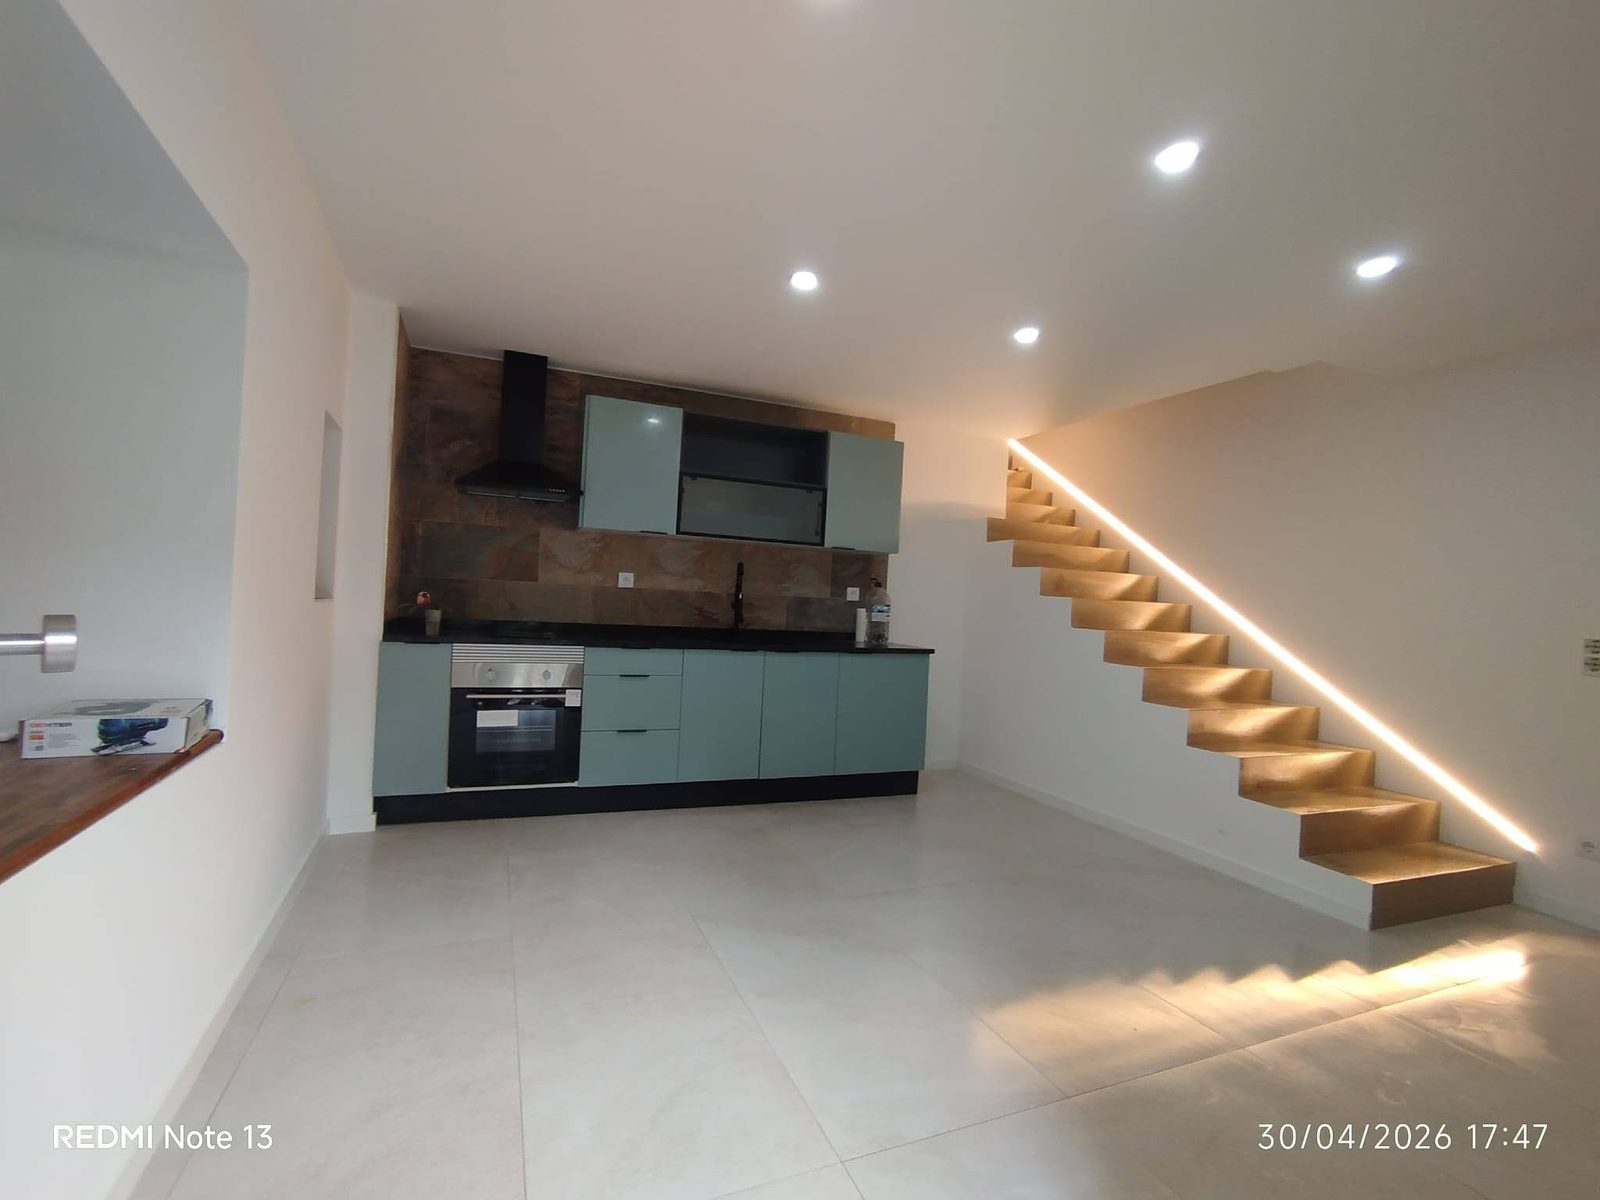
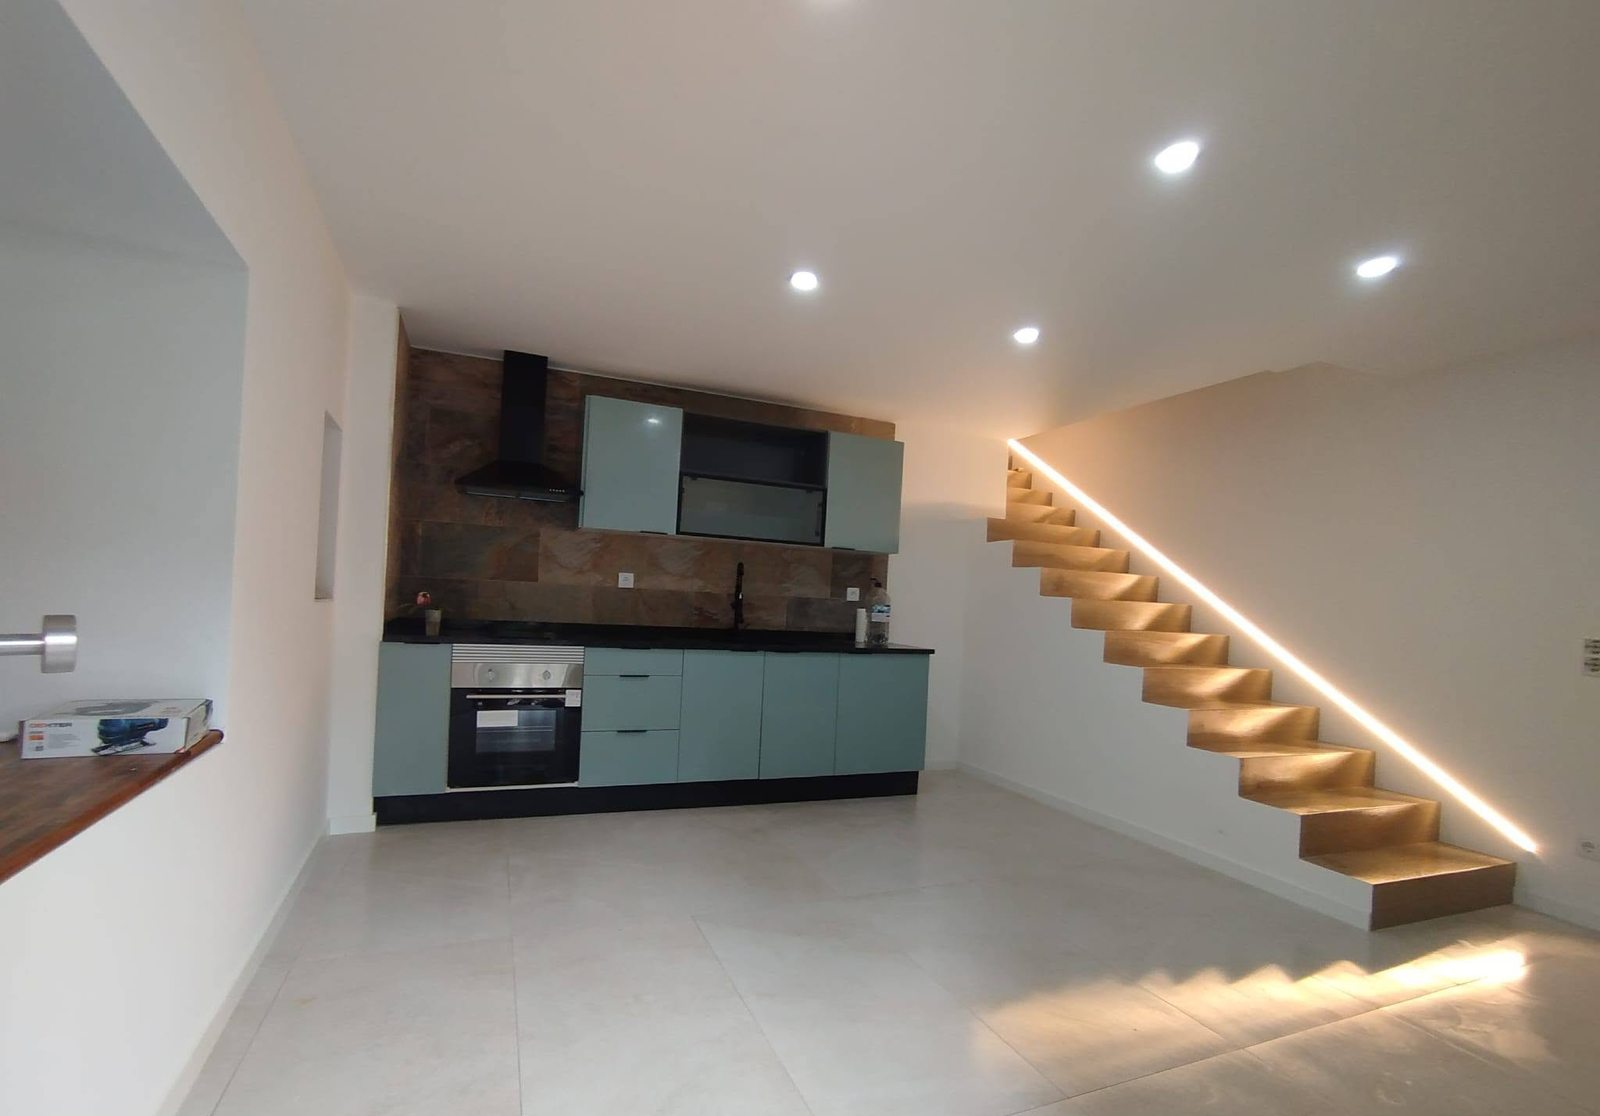
Bloco 4: hero (título+destaque, CTAs, provas, foto premium sem carimbo)

diff --git a/index.html b/index.html
@@ -86,8 +86,33 @@
   </div>
 
   <main id="conteudo">
-    <section id="inicio" style="min-height:90vh;display:flex;align-items:center;background:var(--grad-navy);color:#fff">
-      <div class="container"><span class="eyebrow" style="color:#fff">Bloco 3 · navbar</span><h1 style="color:#fff;max-width:16ch">Transformamos ideias em realidade.</h1><p class="section-lead" style="color:rgba(255,255,255,.85)">Placeholder para testar a navbar (logo que encolhe) e o menu mobile. Hero real a seguir.</p></div>
+    <!-- ================= HERO ================= -->
+    <section id="inicio" class="hero">
+      <div class="container hero__grid">
+        <div class="hero__copy" data-reveal>
+          <span class="eyebrow">Remodelações · Vila Nova de Gaia</span>
+          <h1 class="hero__title">Transformamos ideias em <span class="hl">realidade</span>.</h1>
+          <p class="hero__lead">Remodelações interior e exterior com <strong>qualidade, profissionalismo e atenção ao detalhe</strong>. Do pladur ao telhado, tratamos de tudo — e entregamos a obra pronta a estrear.</p>
+          <div class="hero__cta">
+            <a class="btn btn--primary btn--lg" href="https://wa.me/351937605547?text=Ol%C3%A1%21%20Gostaria%20de%20um%20or%C3%A7amento." target="_blank" rel="noopener">
+              <svg viewBox="0 0 24 24" aria-hidden="true" fill="currentColor"><path d="M12.04 2C6.58 2 2.13 6.45 2.13 11.91c0 1.75.46 3.45 1.32 4.95L2 22l5.25-1.38c1.45.79 3.08 1.21 4.79 1.21h.01c5.46 0 9.91-4.45 9.91-9.91 0-2.65-1.03-5.14-2.9-7.01A9.82 9.82 0 0012.04 2zm5.8 14.16c-.24.68-1.42 1.31-1.95 1.35-.5.04-.99.21-3.42-.71-2.88-1.14-4.72-4.09-4.86-4.28-.14-.19-1.17-1.56-1.17-2.97 0-1.41.74-2.11 1-2.4.26-.28.57-.35.76-.35.19 0 .38 0 .55.01.18.01.42-.07.65.5.24.58.81 2 .88 2.15.07.14.12.31.02.5-.09.19-.14.31-.28.48-.14.17-.29.37-.42.5-.14.14-.28.29-.12.57.16.28.71 1.17 1.53 1.9 1.05.94 1.94 1.23 2.22 1.37.28.14.44.12.6-.07.16-.19.69-.81.88-1.09.19-.28.37-.23.63-.14.26.09 1.65.78 1.93.92.28.14.47.21.54.33.07.11.07.66-.17 1.34z"/></svg>
+              Pedir orçamento
+            </a>
+            <a class="btn btn--outline btn--lg" href="#obras">Ver obras</a>
+          </div>
+          <ul class="hero__trust">
+            <li><svg viewBox="0 0 24 24" fill="none" stroke="currentColor" stroke-width="2.4" stroke-linecap="round" stroke-linejoin="round"><path d="m20 6-11 11-5-5"/></svg> Qualidade</li>
+            <li><svg viewBox="0 0 24 24" fill="none" stroke="currentColor" stroke-width="2.4" stroke-linecap="round" stroke-linejoin="round"><path d="m20 6-11 11-5-5"/></svg> Profissionalismo</li>
+            <li><svg viewBox="0 0 24 24" fill="none" stroke="currentColor" stroke-width="2.4" stroke-linecap="round" stroke-linejoin="round"><path d="m20 6-11 11-5-5"/></svg> Soluções à medida</li>
+          </ul>
+        </div>
+        <div class="hero__media" data-reveal>
+          <div class="hero__photo">
+            <img src="assets/img/obras/escada-led.jpg" alt="Escada interior com iluminação LED — remodelação Raf Matos" width="900" height="1125" fetchpriority="high" />
+          </div>
+          <span class="hero__badge">Orçamento sem compromisso</span>
+        </div>
+      </div>
     </section>
     <section id="servicos" class="section"><div class="container"><h2>Serviços</h2><p class="muted">(em construção)</p></div></section>
     <section id="antes-depois" class="section section--soft"><div class="container"><h2>Antes &amp; Depois</h2><p class="muted">(em construção)</p></div></section>

diff --git a/assets/css/styles.css b/assets/css/styles.css
@@ -66,6 +66,26 @@ body.menu-open{overflow:hidden}
 }
 @media (max-width:420px){ .nav__word small{display:none} }
 
+/* ---------------- HERO ---------------- */
+.hero{position:relative;padding-top:calc(var(--header-h) + 1.6rem);padding-bottom:clamp(2.4rem,5vw,4rem);background:var(--bg-soft);overflow:hidden}
+.hero__grid{display:grid;grid-template-columns:1.05fr .95fr;gap:clamp(2rem,5vw,3.5rem);align-items:center}
+.hero__title{font-size:clamp(2.3rem,5.2vw,3.9rem);line-height:1.04;margin-top:.6rem}
+.hero__title .hl{color:var(--blue)}
+.hero__lead{margin-top:1.1rem;font-size:var(--fs-lead);color:var(--muted);max-width:38rem}
+.hero__lead strong{color:var(--ink)}
+.hero__cta{display:flex;flex-wrap:wrap;gap:.8rem;margin-top:1.7rem}
+.hero__trust{display:flex;flex-wrap:wrap;gap:1rem 1.5rem;margin-top:1.9rem;padding-top:1.5rem;border-top:1px solid var(--line-2)}
+.hero__trust li{display:flex;align-items:center;gap:.5rem;font-family:var(--font-head);font-weight:600;color:var(--ink);font-size:.98rem}
+.hero__trust svg{width:22px;height:22px;color:var(--blue);flex:none}
+.hero__media{position:relative}
+.hero__photo{border-radius:var(--radius-lg);overflow:hidden;box-shadow:var(--shadow);aspect-ratio:4/5;border:1px solid var(--line)}
+.hero__photo img{width:100%;height:100%;object-fit:cover}
+.hero__badge{position:absolute;left:-12px;bottom:26px;background:var(--yellow);color:var(--ink);font-family:var(--font-head);font-weight:700;font-size:.98rem;padding:.7em 1.1em;border-radius:10px;box-shadow:var(--shadow-sm)}
+@media (max-width:860px){
+  .hero__grid{grid-template-columns:1fr;gap:2rem}
+  .hero__media{order:-1;max-width:400px;margin-inline:auto;width:100%}
+}
+
 /* ---------------- REVEAL ---------------- */
 [data-reveal]{opacity:0;transform:translateY(16px);transition:opacity .6s var(--ease),transform .6s var(--ease)}
 [data-reveal].is-in{opacity:1;transform:none}
